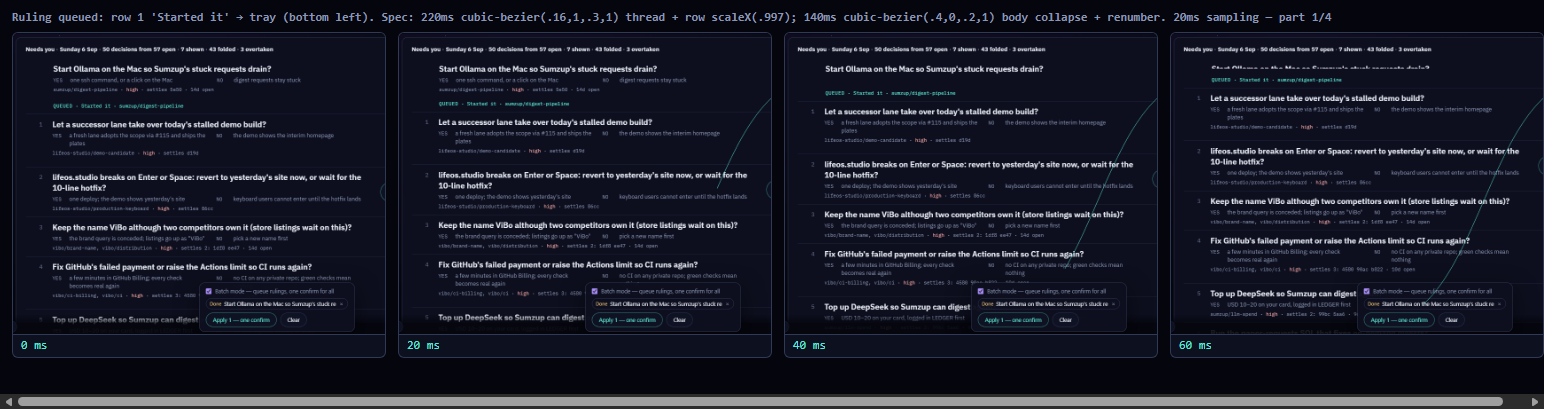
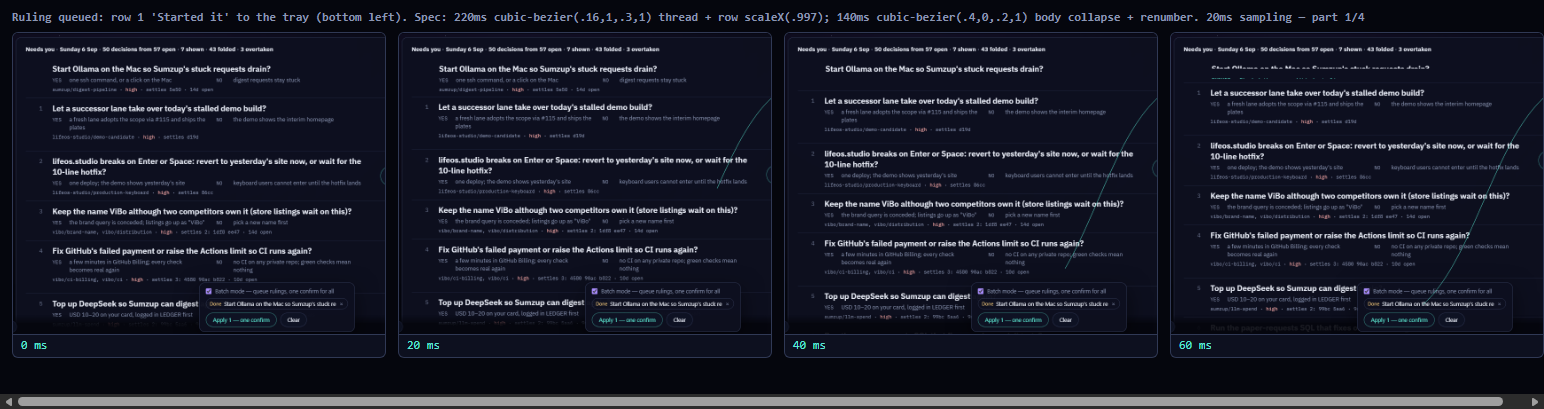
Ruling Brief: the docket grows as the body shrinks (no downward bump at 0 ms)
Native-resolution frames showed the rows beneath a queued row jumping down by
the docket's height on the first frame before travelling up. The docket now
opens through the same 140ms grid-row transition the body closes with, so the
row height only ever decreases.

diff --git a/src/continuity/ruling-brief.css b/src/continuity/ruling-brief.css
@@ -43,6 +43,9 @@
 /* ---- rows ---- */
 .rb-rows { list-style: none; margin: 0; padding: 0; }
 .rb-rows--folded .rb-row:first-child { border-top: 1px solid var(--bf-line); }
+/* 43 folded decisions are ~4.6k px; the fold opens to a scrollable screenful,
+   so the sheet stays one screen and the 180ms growth is visible, not a pop. */
+.rb-rows--folded { max-height: 64vh; overflow: auto; overscroll-behavior: contain; }
 .rb-row {
   position: relative;
   border-top: 1px solid var(--bf-line);
@@ -120,6 +123,13 @@
 .rb-pill:active { background: rgba(94, 234, 212, 0.12); border-color: var(--bf-teal); }
 
 /* ---- the docket mark left by a ruling ---- */
+.rb-docket-wrap {
+  display: grid;
+  grid-template-rows: 0fr;
+  transition: grid-template-rows 140ms var(--rb-ease-renumber);
+}
+.rb-row--queued .rb-docket-wrap { grid-template-rows: 1fr; }
+.rb-docket-wrap__inner { min-height: 0; overflow: hidden; }
 .rb-docket {
   margin: 0;
   padding: 10px 0 10px 60px;
@@ -181,6 +191,6 @@
 
 /* ---- reduced motion: every moment becomes an instant state change ---- */
 @media (prefers-reduced-motion: reduce) {
-  .rb-row, .rb-row__body, .rb-fold, .rb-seam__toggle b, .rb-pill { transition: none; }
+  .rb-row, .rb-row__body, .rb-docket-wrap, .rb-fold, .rb-seam__toggle b, .rb-pill { transition: none; }
   .rb-row--queued { transform: none; }
 }

diff --git a/src/continuity/RulingBrief.jsx b/src/continuity/RulingBrief.jsx
@@ -143,12 +143,18 @@ function Row({ group, index, numeral, live, queued, focused, onRule, onFocusRow 
           ) : null}
         </div>
       </div>
-      {queued && (
-        <p className="rb-docket" aria-live="polite">
-          <b>QUEUED</b> · {queued.label} · {group.loops[0]}{group.ids.length > 1 ? ` ×${group.ids.length}` : ""}
-          {queued.skipped ? <span className="rb-docket__note"> · {queued.skipped} of {group.ids.length} has no proposal to approve and stays open</span> : null}
-        </p>
-      )}
+      {/* The docket grows over the same 140ms the body shrinks, so the row's
+          height only ever decreases and the rows beneath never bump down first. */}
+      <div className="rb-docket-wrap" aria-live="polite">
+        <div className="rb-docket-wrap__inner">
+          {queued && (
+            <p className="rb-docket">
+              <b>QUEUED</b> · {queued.label} · {group.loops[0]}{group.ids.length > 1 ? ` ×${group.ids.length}` : ""}
+              {queued.skipped ? <span className="rb-docket__note"> · {queued.skipped} of {group.ids.length} has no proposal to approve and stays open</span> : null}
+            </p>
+          )}
+        </div>
+      </div>
     </li>
   );
 }
